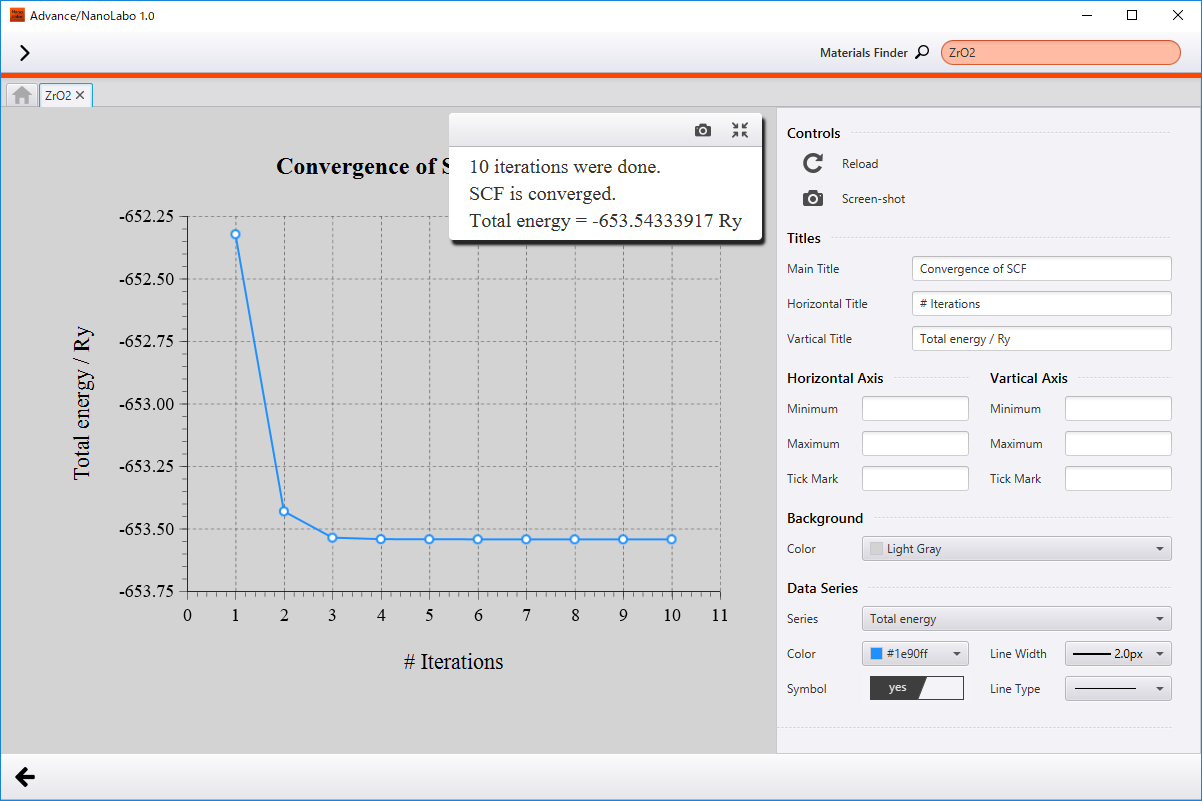
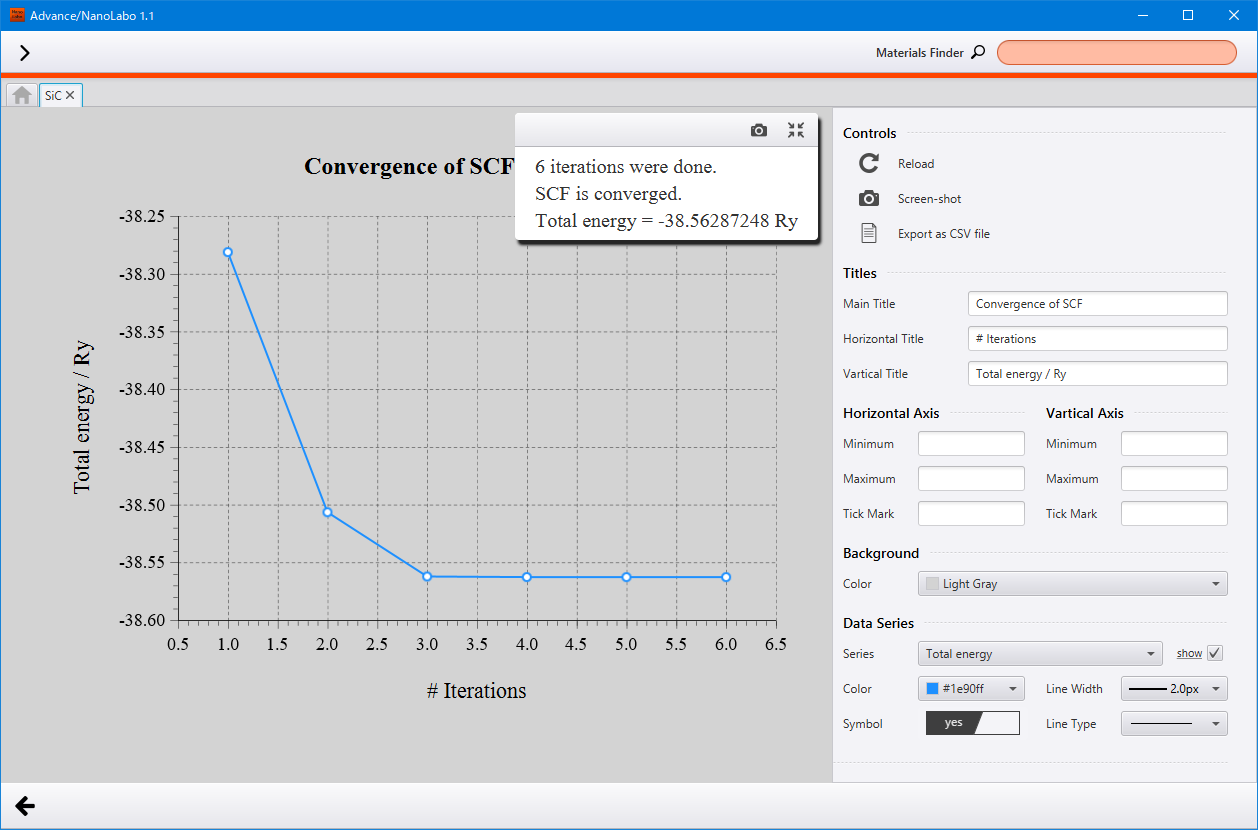
modify result

diff --git a/docs/source/usage/result.rst b/docs/source/usage/result.rst
@@ -12,14 +12,18 @@
 
 .. |back| image:: /img/back.png
 
+.. image:: /img/result.png
+
 .. _plot:
 
 2Dプロット
 =======================
 
-時系列データや状態密度・バンド構造は2Dプロットで表示します。画面右側のパネルでプロットの体裁を調整します。計算実行中の場合、 :guilabel:`Reload` をクリックすると出力ファイルを読み込んで表示を更新します。
+時系列データや状態密度・バンド構造は2Dプロットで表示します。画面右側のパネルでプロットの体裁を調整します。 :guilabel:`Data Series` でデータ系列ごとに表示・非表示の設定、体裁の調整が可能です。
 
-:guilabel:`Screen-shot` をクリックしてプロットを画像ファイルに保存します。
+計算実行中の場合、 :guilabel:`Reload` をクリックすると出力ファイルを読み込んで表示を更新します。
+
+:guilabel:`Screen-shot` をクリックしてプロットを画像ファイルに保存します。また、 :guilabel:`Export as CSV file` をクリックすると表示しているデータをCSVファイルとして保存します。
 
 .. image:: /img/2dplot.png
 
